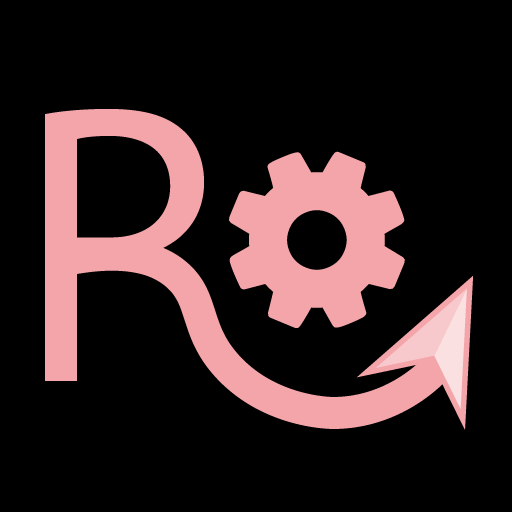
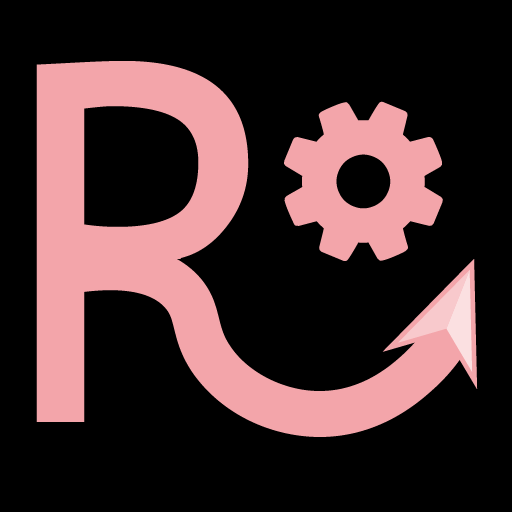
Silent range failures, model MO default options
also make the icon a bit less noodley

diff --git a/Redirect/GameHooks.cs b/Redirect/GameHooks.cs
@@ -46,7 +46,7 @@ namespace Redirect {
         private GroundActionValidDelegate GroundActionValid = null!;
         private GetGroundPlacementDelegate GetGroundPlacement = null!;
         private ActionValidDelegate ActionValid = null!;
-        private volatile GameObject CurrentUIMouseover = null!;
+        private volatile GameObject? CurrentUIMouseover = null!;
 
         public GameHooks(Configuration config) {
             Configuration = config;
@@ -135,6 +135,31 @@ namespace Redirect {
             return true;
         }
 
+        private bool ValidateRange(Lumina.Excel.GeneratedSheets.Action action, GameObject? target, bool place_at_cursor) {
+
+            if(!Configuration.SilentRangeFailure) {
+                return true;
+            }
+
+            if (place_at_cursor) {
+                bool[] results = new bool[4];
+                unsafe {
+                    fixed (bool* p = results) {
+                        GroundActionValid((IntPtr)ActionManager.Instance(), action.RowId, ActionType.Spell, p);
+                    }
+                    var success = results[0] && results[1] && results[2];
+                    return success;
+                }
+            }
+            else if (target == null) {
+                return false;
+            }
+
+            var result = ActionValid(action.RowId, ClientState.LocalPlayer!.Address, target.Address);
+
+            return result == 0;
+        }
+
 
         private GameObject? RedirectTarget(Lumina.Excel.GeneratedSheets.Action action, ref bool place_at_cursor) {
 
@@ -144,14 +169,24 @@ namespace Redirect {
                 
                 if(Configuration.DefaultMouseoverFriendly && (action.CanTargetFriendly || action.CanTargetParty || action.TargetArea)) {
                     
-                    if(CurrentUIMouseover == null && action.TargetArea) {
+                    if (CurrentUIMouseover != null && ValidateRange(action, CurrentUIMouseover, false)) {
+                        return CurrentUIMouseover;
+                    }
+                    else if (action.TargetArea && ValidateRange(action, null, true)) {
                         place_at_cursor = true;
                     }
-                    
-                    return CurrentUIMouseover;
+                    else if (Configuration.DefaultModelMouseoverFriendly && ValidateRange(action, null, true)) {
+                        return TargetManager.MouseOverTarget;
+                    }
                 }
                 else if(Configuration.DefaultMouseoverHostile && action.CanTargetHostile) {
-                    return CurrentUIMouseover;
+
+                    if (CurrentUIMouseover != null && ValidateRange(action, CurrentUIMouseover, false)) {
+                        return CurrentUIMouseover;
+                    }
+                    else if (Configuration.DefaultModelMouseoverHostile && ValidateRange(action, null, true)) {
+                        return TargetManager.MouseOverTarget;
+                    }
                 }
 
                 return null;
@@ -159,7 +194,9 @@ namespace Redirect {
 
             foreach (var t in Configuration.Redirections[id].Priority) {
                 var nt = ResolveTarget(t, ref place_at_cursor);
-                if (nt != null) {
+                var range_ok = ValidateRange(action, nt, place_at_cursor);
+
+                if (range_ok && (nt != null || place_at_cursor)) {
                     return nt;
                 }
             };
@@ -168,6 +205,9 @@ namespace Redirect {
         }
 
         public GameObject? ResolveTarget(string target, ref bool place_at_cursor) {
+
+            place_at_cursor = false;
+
             switch (target) {
                 case "Cursor":
                     place_at_cursor = true;
@@ -336,18 +376,14 @@ namespace Redirect {
 
             // Use the action normally
 
+            PluginLog.Information("Using action normally");
+
             return TryActionHook.Original(this_ptr, action_type, id, target, param, origin, unk, location);
         }
 
         private void OnMouseoverEntityCallback(IntPtr this_ptr, IntPtr entity) {
             MouseoverHook.Original(this_ptr, entity);
-
-            if (entity == IntPtr.Zero) {
-                CurrentUIMouseover = null!;
-            } 
-            else {
-                CurrentUIMouseover = Services.ObjectTable.CreateObjectReference(entity)!;
-            }
+            CurrentUIMouseover = entity == IntPtr.Zero ? null : Services.ObjectTable.CreateObjectReference(entity);
         }
 
         public void Dispose() {

diff --git a/Redirect/PluginUI.cs b/Redirect/PluginUI.cs
@@ -63,18 +63,41 @@ namespace Redirect {
             if (ImGui.BeginMenuBar()) {
                 if (ImGui.BeginMenu("Options")) {
 
-                    ImGui.Text("Global defaults:");
+                    ImGui.Text("Global settings:");
 
                     ImGui.Dummy(new Vector2(-1, 1));
+
+                    bool range_fail = Configuration.SilentRangeFailure;
+                    if (ImGui.Checkbox("Skip targets out of range", ref range_fail)) {
+                        Configuration.SilentRangeFailure = range_fail;
+                    }
 
                     bool friendly_mo = Configuration.DefaultMouseoverFriendly;
                     if (ImGui.Checkbox("Treat all friendly actions as mouseovers", ref friendly_mo)) {
                         Configuration.DefaultMouseoverFriendly = friendly_mo;
                     }
 
+                    if (friendly_mo) {
+                        ImGui.Dummy(new Vector2(2, -1));
+                        ImGui.SameLine();
+                        bool friendly_mo_model = Configuration.DefaultModelMouseoverFriendly;
+                        if (ImGui.Checkbox("Include friendly target models", ref friendly_mo_model)) {
+                            Configuration.DefaultModelMouseoverFriendly = friendly_mo_model;
+                        }
+                    }
+
                     bool hostile_mo = Configuration.DefaultMouseoverHostile;
                     if (ImGui.Checkbox("Treat all hostile actions as mouseovers", ref hostile_mo)) {
                         Configuration.DefaultMouseoverHostile = hostile_mo;
+                    }
+
+                    if (hostile_mo) {
+                        ImGui.Dummy(new Vector2(2, -1));
+                        ImGui.SameLine();
+                        bool hostile_mo_model = Configuration.DefaultModelMouseoverFriendly;
+                        if (ImGui.Checkbox("Include hostile target models", ref hostile_mo_model)) {
+                            Configuration.DefaultModelMouseoverHostile = hostile_mo_model;
+                        }
                     }
 
                     ImGui.Dummy(new Vector2(-1, 1));

diff --git a/Redirect/Configuration.cs b/Redirect/Configuration.cs
@@ -8,11 +8,14 @@ namespace Redirect {
     public class Configuration : IPluginConfiguration {
         public int Version { get; set; } = 1;
         public bool DefaultMouseoverFriendly { get; set; } = false;
+        public bool DefaultModelMouseoverFriendly { get; set; } = false;
         public bool DefaultMouseoverHostile { get; set; } = false;
+        public bool DefaultModelMouseoverHostile { get; set; } = false;
         public bool EnableMacroQueueing { get; set; } = false;
         public bool QueuePotions { get; set; } = false;
         public bool QueueSprint { get; set; } = false;
         public bool QueueGroundActions { get; set; } = false;
+        public bool SilentRangeFailure { get; set; } = false;
         public string DefaultRedirection { get; set; } = "UI Mouseover";
         public Dictionary<uint, Redirection> Redirections { get; set; } = new();
 
